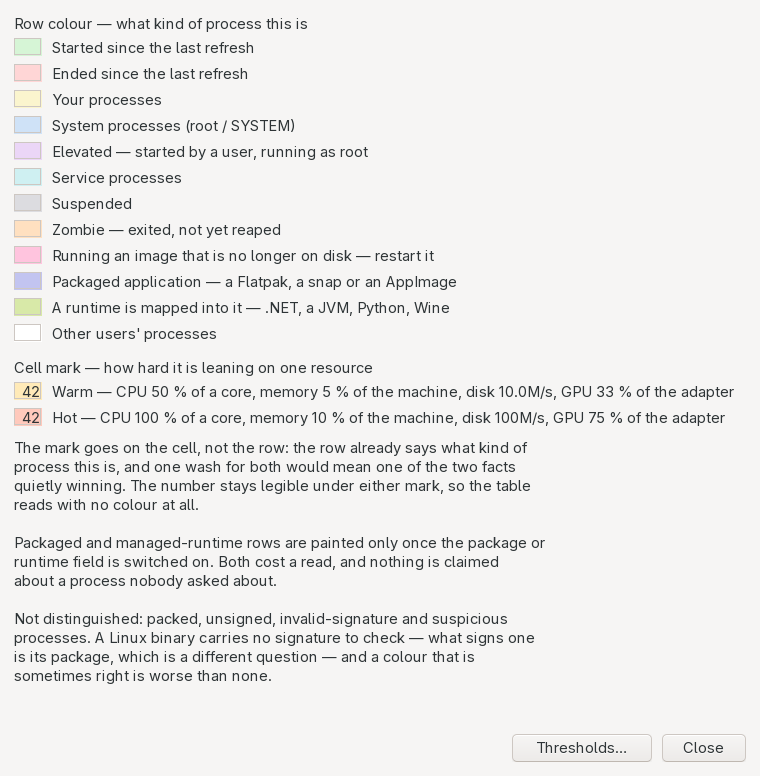
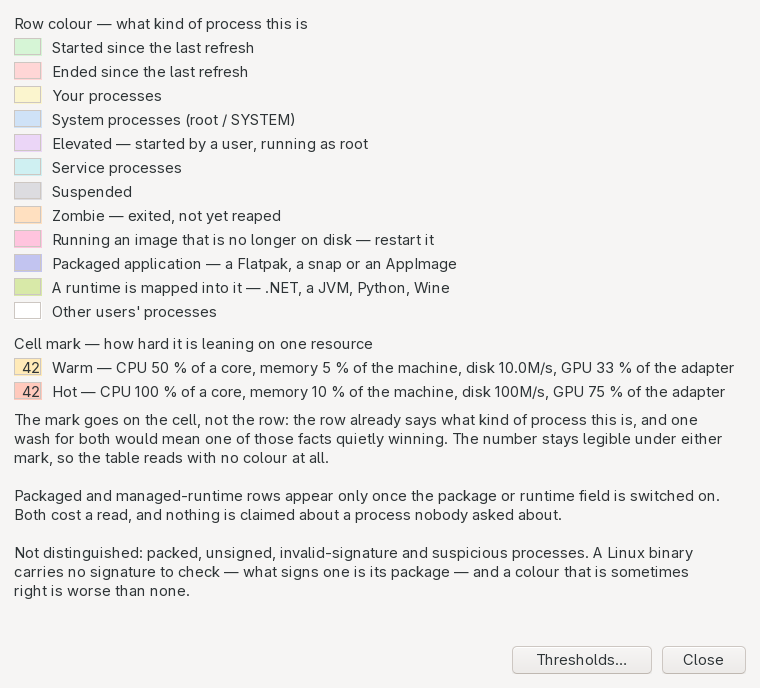
# A legend that will not fit on a laptop, and a service page that latched before it knew anything
Three defects from reading the work back rather than from a failing test.

The legend may not be shrunk below what it holds — that is the whole point of
computing its height — so the height it computes has to fit the smallest screen
somebody runs a desktop on. Twelve swatches and a three-paragraph note came to
776 pixels, which does not fit a 1366x768 laptop once a title bar is on it, and
the buttons would have been off the bottom with no way to drag them back. The
rows are 24 apart now and the note is wrapped for the width it actually has
rather than for the 460-pixel box it used to sit in: 688, and legible.

The Services page is read once and kept, and it was reading before the first
sample had given it a cgroup to look a unit up by. Somebody quick enough to
click that tab inside the first tick — a thing a person can be — would have been
told for the rest of the window's life that the cgroup could not be read.
Nothing is settled now until there is something to settle it from.

And EndpointHost's own sentence claimed to answer null where there is no host,
which is not what it does with a Unix socket's path. It says what it does.

diff --git a/ProcessManager.Ui.Desktop/LegendWindow.cs b/ProcessManager.Ui.Desktop/LegendWindow.cs
@@ -26,7 +26,20 @@ namespace Hawkynt.ProcessManager.Ui.Desktop;
 public sealed class LegendWindow : Form {
 
   private const int _Margin = 14;
-  private const int _RowHeight = 26;
+
+  /// <summary>
+  /// How far apart the swatch rows sit.
+  /// </summary>
+  /// <remarks>
+  /// Twenty-four rather than twenty-six, and that is a screen-size decision rather than a taste one.
+  /// This window may not be shrunk below what it holds — the whole point of computing its height —
+  /// so the height it computes has to fit the smallest display anybody runs a desktop on. Twelve
+  /// swatches and a three-paragraph note at twenty-six came to 776 pixels, which does not fit a
+  /// 1366×768 laptop once a title bar is on it, and the buttons would have been off the bottom of
+  /// the screen with no way to drag them back.
+  /// </remarks>
+  private const int _RowHeight = 24;
+
   private const int _SwatchWidth = 28;
   private const int _TextLeft = 52;
 
@@ -90,19 +103,16 @@ public sealed class LegendWindow : Form {
   /// </para>
   /// </remarks>
   private static readonly string[] _Note = [
-    "The mark goes on the cell, not the row: the row already says what kind of",
-    "process this is, and one wash for both would mean one of the two facts",
-    "quietly winning. The number stays legible under either mark, so the table",
-    "reads with no colour at all.",
+    "The mark goes on the cell, not the row: the row already says what kind of process this is, and one",
+    "wash for both would mean one of those facts quietly winning. The number stays legible under either",
+    "mark, so the table reads with no colour at all.",
     "",
-    "Packaged and managed-runtime rows are painted only once the package or",
-    "runtime field is switched on. Both cost a read, and nothing is claimed",
-    "about a process nobody asked about.",
+    "Packaged and managed-runtime rows appear only once the package or runtime field is switched on.",
+    "Both cost a read, and nothing is claimed about a process nobody asked about.",
     "",
-    "Not distinguished: packed, unsigned, invalid-signature and suspicious",
-    "processes. A Linux binary carries no signature to check — what signs one",
-    "is its package, which is a different question — and a colour that is",
-    "sometimes right is worse than none.",
+    "Not distinguished: packed, unsigned, invalid-signature and suspicious processes. A Linux binary",
+    "carries no signature to check — what signs one is its package — and a colour that is sometimes",
+    "right is worse than none.",
   ];
 
   private readonly Button _thresholds = new() { Text = "Thresholds…" };

diff --git a/ProcessManager.Tests/ProcessPropertiesWindowTests.cs b/ProcessManager.Tests/ProcessPropertiesWindowTests.cs
@@ -676,6 +676,25 @@ public sealed class ProcessPropertiesWindowTests {
   }
 
   /// <summary>
+  /// The page is read once and kept, so it must not be read before there is anything to read it by.
+  /// Opened inside the first tick it had no cgroup yet and would have latched "its cgroup could not
+  /// be read" for the rest of the window's life.
+  /// </summary>
+  [Test]
+  public void OpeningItBeforeTheFirstSampleDoesNotLatchTheWrongAnswer() {
+    var (snapshot, delta, row, key) = Machine(cgroup: "/system.slice/indexer.service");
+    var probe = new StubProbe { Services = [Unit()] };
+    var window = new ProcessPropertiesWindow(probe, key, row.Name);
+
+    // Quicker than the tick, which is a thing a person can be.
+    window.ShowPage("Services");
+    window.UpdateFromSample(snapshot, delta, row, Counter.NotSampledYet);
+
+    Assert.That(window.ServicesText, Does.Contain("indexer.service"));
+    Assert.That(window.ServicesText, Does.Not.Contain("could not be read"));
+  }
+
+  /// <summary>
   /// The row §27 named as the one thing on the General page that could be answered and was not. It
   /// costs nothing — the cgroup is already in the sample, and a systemd unit is a cgroup.
   /// </summary>

diff --git a/ProcessManager.Core/Query/Humanize.cs b/ProcessManager.Core/Query/Humanize.cs
@@ -473,8 +473,8 @@ public static class Humanize {
       : $"{address}:{port}";
 
   /// <summary>
-  /// The host out of an endpoint this class drew, without its port, or null where there is no host in
-  /// it (PRD §40).
+  /// The host out of an endpoint this class drew, without its port, or null where the endpoint names
+  /// no host at all (PRD §40).
   /// </summary>
   /// <remarks>
   /// <para>
@@ -492,6 +492,11 @@ public static class Humanize {
   /// The placeholders come back as null rather than as themselves. <c>—</c> is a listening socket
   /// with no peer, <c>n/a</c> is a Unix socket, which has no address of the kind a search means, and
   /// neither is a term anybody wants a browser opened for.
+  /// </para>
+  /// <para>
+  /// A Unix socket's <em>local</em> end is a filesystem path with no port on it, and comes back
+  /// whole. That is the right answer to "which part of this is not the port" and is not a host; the
+  /// remote column is the one this is used on, and for a Unix socket that column is a placeholder.
   /// </para>
   /// </remarks>
   public static string? EndpointHost(string? endpoint) {

diff --git a/ProcessManager.Ui.Desktop/ProcessPropertiesWindow.cs b/ProcessManager.Ui.Desktop/ProcessPropertiesWindow.cs
@@ -734,6 +734,13 @@ public sealed class ProcessPropertiesWindow : Form {
     if (this._servicesRead)
       return;
 
+    // Before the first sample there is no cgroup to look a unit up by, and the answer would latch —
+    // somebody quick enough to click this tab inside the first tick would have been told for the rest
+    // of the window's life that the cgroup could not be read. Nothing is settled until there is
+    // something to settle it from; the tick calls this again.
+    if (this._row is null)
+      return;
+
     this._servicesRead = true;
     var services = this._probe.GetServices();
     if (services.Count == 0) {
